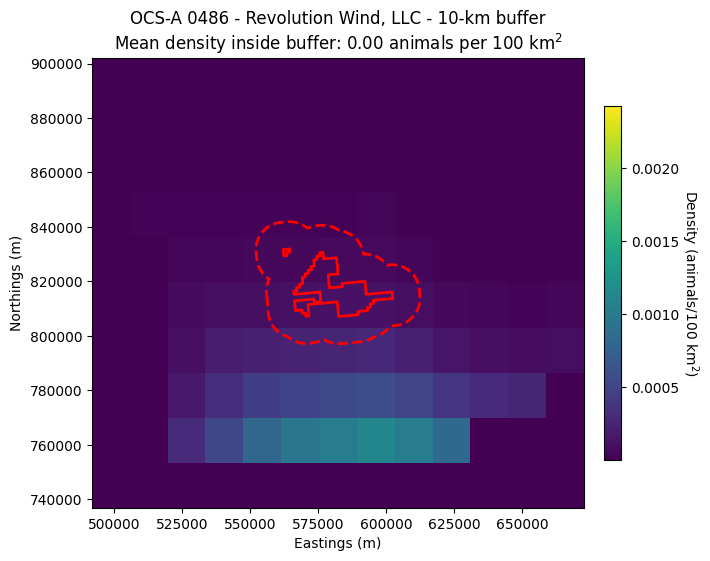
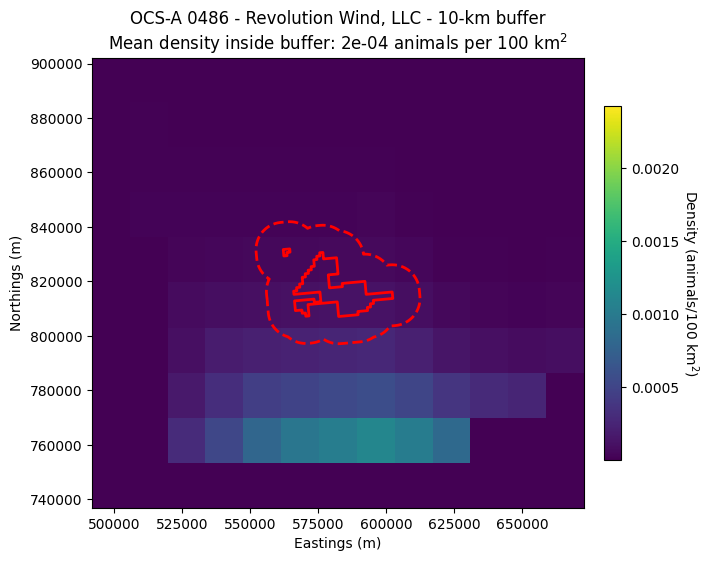
make jupyter notebook for step 1, re-organize files/folders

Changed region(s): [[0.1549, 0.0606, 0.8056, 0.0909]]

diff --git a/scripts/explore-density-and-zonal-stats.py b/scripts/explore-density-and-zonal-stats.py
@@ -11,12 +11,9 @@ via their Renewable Energy GIS Data site
 """
 import rasterio
 from rasterio.mask import mask
-from rasterio.plot import show
 import geopandas as gpd
 import matplotlib.pyplot as plt
 import numpy as np
-from shapely.geometry import Polygon
-
 
 
 # --------------------- Lease Area Shapefiles --------------------- #
@@ -106,8 +103,10 @@ with rasterio.open(raster_file_path) as raster_src:
     ax.set_aspect('equal')
     ax.set_xlabel('Eastings (m)')
     ax.set_ylabel('Northings (m)')
-    ax.set_title(lease_area_selection + " - " + f"{buffer_size/1000:.0f}-km buffer\n"
-                                                f"Mean density inside buffer: " + f"{mean_value:.2f} animals per 100 km$^2$")
+    ax.set_title(lease_area_selection + " - " +
+                 f"{buffer_size/1000:.0f}-km buffer\n"
+                 f"Mean density inside buffer: " + f"{mean_value:.0e} "
+                 f"animals per 100 km$^2$")
 
     # Overlay the polygon(s) from the GeoDataFrame
     gdf_selected_lease_area_reprojected.plot(ax=ax, facecolor='none', edgecolor='red', linewidth=2)

diff --git a/scripts/prep_stats_summary.py b/scripts/prep_stats_summary.py
@@ -11,7 +11,6 @@ point for a visualization using any other tool (such as ObservableHQ, Holoviz, P
 
 import rasterio
 from rasterio.mask import mask
-from rasterio.plot import show
 import geopandas as gpd
 import matplotlib.pyplot as plt
 import numpy as np
